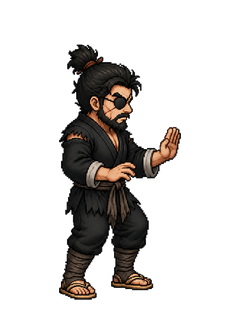
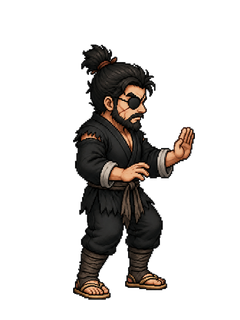
art: apply T45 seq72 right-anchor correction

Changed region(s): [[0.2333, 0.125, 0.8167, 0.9375]]

diff --git a/assets/_trial_20260906/t45_batch2a_codex_native/recenter_seq72.py b/assets/_trial_20260906/t45_batch2a_codex_native/recenter_seq72.py
@@ -1,0 +1,21 @@
+from pathlib import Path
+
+from PIL import Image
+
+
+ROOT = Path(__file__).parent
+SOURCE = ROOT / "normalized" / "shanzei_a_right.png"
+BACKUP = ROOT / "qa" / "shanzei_a_right_before_seq72.png"
+DX = 14
+
+
+source = Image.open(SOURCE).convert("RGBA")
+if source.size != (240, 320):
+    raise ValueError(f"unexpected source size: {source.size}")
+if not BACKUP.exists():
+    source.save(BACKUP, "PNG", optimize=False)
+
+shifted = Image.new("RGBA", source.size, (0, 0, 0, 0))
+shifted.alpha_composite(source, (DX, 0))
+shifted.save(SOURCE, "PNG", optimize=False)
+print(f"shifted {SOURCE} by +{DX}px; backup={BACKUP}")

diff --git a/docs/reviews/T45-Codex原生美术全天复盘-2026-09-06.md b/docs/reviews/T45-Codex原生美术全天复盘-2026-09-06.md
@@ -2,7 +2,7 @@
 
 > 范围：2026-09-06 的 T45 角色战斗帧生产、门检、返工、交接与流程固化。
 > 证据：`tasks/threads/T45.md`、当天相关 Git 提交、各 job 的 `manifest/job/qa/contact`、projbus delivery 与 ACK。
-> 当前结论：主角六向战斗帧已形成 61 张正式 PNG（含 30 张右系、30 张左系镜像和 `die_common`）；山贼甲乙六张空手待机锚已由 Leo 视觉选定，本地透明复核曾报 6/6 PASS，研发线 PM 以全像素 `alpha > 32` 质心复扫后判 5/6 PASS，甲·右因质心 x=105.8（目标约 120）打回，尚未写入敌人运行时目录。
+> 当前结论：主角六向战斗帧已形成 61 张正式 PNG（含 30 张右系、30 张左系镜像和 `die_common`）；seq=72 指出的 `105.8` 对应旧批次 `t45_batch2a_codex_native`，该批次已标记 superseded。旧文件已按 PM 要求确定性右移 14 px 并留备份；统一选定 manifest 指向的逐张闭合握拳候选保持原样，仍需研发线按统一 manifest 重跑规格门，尚未写入敌人运行时目录。
 
 ## 1. 全天结果
 
@@ -68,9 +68,9 @@
 
 最终六张候选集中到 `t45_batch2a_anchor_selection_v2_singleframe`。本地统一复核检查了 240×320、RGBA、真实 alpha、四边透明、单主体连通、视觉高、脚底、中心和 manifest SHA，当时报 6/6 PASS。
 
-研发线 PM 随后用全分辨率逐像素 `alpha > 32` 口径复扫，判定 5/6 PASS；甲·右躯干整体偏左，全像素质心 x=105.8，目标约 120，偏 14 px。原 QA 的 `centroidX=120.0` 实际使用了不同统计口径，未检出姿势性偏斜。这个结果说明尺寸、bbox 中点和脚底都合格，仍不能证明主体视觉质心合格。
+研发线 PM 随后用全分辨率逐像素 `alpha > 32` 口径复扫，判定 5/6 PASS；报告中的 bbox left=59、质心 x=105.8 与旧批次 `t45_batch2a_codex_native/normalized/shanzei_a_right.png` 精确相符。该 job 的 `job.json` 已写明被后续握拳/逐张候选 supersede，因此 seq=72 实际扫到的不是统一 manifest 当前入口。旧文件已按整改单右移 14 px，复测为 bbox left=73、质心 x=119.8211、脚底 y=300、alpha 极值 0/255；没有改动最终选定的逐张候选。
 
-Leo 的“可入阵”确认完成了视觉门；PM 的 5/6 结果证明第二道门发挥了作用。当前隔离分支为 `codex/t45-shanzei-idle-anchor-candidates`，初次 delivery `seq=65`，复核提交为 `a29a9f5`，门检答复为 `seq=72`。甲·右须先水平平移主体并按同一全像素口径复验，再补交这一张；在 6/6 PM PASS 前不写 `assets/characters/enemy/*/battle45/`。
+Leo 的“可入阵”确认完成了视觉门；PM 的 5/6 结果暴露出交接入口与实际扫描路径不一致。当前隔离分支为 `codex/t45-shanzei-idle-anchor-candidates`，初次 delivery `seq=65`，门检答复为 `seq=72`。旧批次修正证据在 `assets/_trial_20260906/t45_batch2a_codex_native/qa/recenter_seq72_qa.json`；最终仍须按统一 manifest 对六张逐张候选复扫，在 6/6 PM PASS 前不写 `assets/characters/enemy/*/battle45/`。
 
 ## 3. 当天暴露的问题、根因和已落地修正
 
@@ -120,8 +120,8 @@ raw 原生输出
 
 ## 5. 明日/下轮起点
 
-- 研发线已判 5/6 PASS；只处理甲·右一张。按 `seq=72` 将主体水平平移至全像素 `alpha > 32` 质心约 x=120，并确认左缘不裁切。
-- 重跑尺寸、脚底、透明外围、单主体连通、全像素质心和 SHA；更新统一 manifest/QA 后补交甲·右。
+- seq=72 指向的旧批次甲·右已按要求平移并通过本地文件门；其修正记录、前后 hash 和备份已落旧 job 的 `qa/`。
+- 研发线下一步应以 `t45_batch2a_anchor_selection_v2_singleframe/manifest.json` 为唯一入口，复扫实际六张闭合握拳候选；旧批次不得重新作为正式候选入口。
 - 6/6 规格门 PASS 后，按 PM 指定命名和 manifest 写入敌人运行时目录，再发正式 release delivery。
 - 不重新打开已通过五张的身份、方向或画风范围。
 - 山贼动作帧继续沿用“该角色已选方向锚 + 本动作真实姿势参考”的逐张闭环；朴刀保持独立武器层，不画入空手身体帧。

diff --git a/tasks/LOG.md b/tasks/LOG.md
@@ -444,6 +444,7 @@
 | 2026-09-06 | Codex（art） | 📝 T45 全天复盘与 skill v1.1 落地 | `docs/reviews/T45-Codex原生美术全天复盘-2026-09-06.md`；覆盖主角动作、镜像、山贼六锚返工、逐张闭环、透明门与双门状态，`.codex/skills/art-pipeline-execution/SKILL.md` 同步可执行规则。 |
 | 2026-09-06 | Codex（art） | ✅ T45 批 2a `seq=72` 已接收并校准 QA 口径 | PM 判 5/6 PASS，甲·右全像素 `alpha>32` 质心 x=105.8 打回；已 ACK received，复盘/skill 固化全分辨率前景质心算法，后续只补该单帧。 |
 | 2026-09-06 | Codex（art） → rd | 📤 T45 全天复盘与 skill v1.1 已交付 | commit `65a4747`，分支 `codex/t45-shanzei-idle-anchor-candidates`；projbus `seq=73`，交付复盘、skill 与留痕，甲·右补帧另续。 |
+| 2026-09-06 | Codex（art） | 🛠 T45 seq=72 甲·右整改单完成 | PM 数值对应已 superseded 旧批次文件；已按 +14px 平移并复验质心119.8211，修正证据 `assets/_trial_20260906/t45_batch2a_codex_native/qa/recenter_seq72_qa.json`，统一逐张 manifest 保持原样，待 rd 按正确入口重跑规格门。 |
 | 2026-09-06 | ZCode | 📋 出招速度需求 v1.0 定稿→主架构方案已约（seq=63） | Leo 二轮四裁落文（循环=时长本身/两段落点/普攻1s/3s→0.5s 数值框架）；语义级变更走完整链（方案→Leo拍板→发卡） |
 | 2026-09-06 | ZCode | 📋 武功 schema v0.2：castSpeed 出招系数入战斗层 | Leo 裁定=个体差异属性非统一曲线（轻招<1/绝学可 2）；内功加成速度=全体字段（随内功等级↑，初始 0.2）归内功系统 schema；两字段求和÷3000ms、和封顶≤6 |
 | 2026-09-06 | ZCode | 🔍 批 2a 锚候选门检：5/6 PASS，甲·右打回 | 全像素精扫发现甲·右躯干偏左（质心 105.8 应 ~120，偏 14px）——归一脚本对姿势性偏斜无纠偏能力（已知局限）；其余五张全 PASS（甲独眼/乙红巾形象立住、空拳确认）；整改单已发（平移回中或重出+QA 口径对齐全像素精扫） |

diff --git a/tasks/threads/T45.md b/tasks/threads/T45.md
@@ -85,3 +85,4 @@
 | 2026-09-06 | Codex（art） | 📝 T45 全天复盘与 skill v1.1 落地 | 全天主角右上/右下、左系镜像、资源卫生、山贼六锚批量失败→逐张闭环、透明复核、双门停点已归档 `docs/reviews/T45-Codex原生美术全天复盘-2026-09-06.md`；skill 新增强制 refs 职责表、contact 禁作生成源、用户候选同门检、alpha/外围/连通域事实门、双门 release 和隔离分支提交规则。 |
 | 2026-09-06 | rd → Codex（art） | 🔧 T45 批 2a 锚规格门 5/6 PASS，甲·右打回 | projbus `seq=72` 已 ACK received；甲·右全像素 `alpha>32` 质心 x=105.8，目标约 120，偏 14 px。本地 QA 的 120.0 与 PM 统计口径不一致；复盘与 skill 已补全像素质心口径，正式目录继续锁定，后续只平移/复验/补交这一张。 |
 | 2026-09-06 | Codex（art） → rd | 📤 T45 全天复盘与 skill v1.1 已交付 | commit `65a4747` 已推隔离分支 `codex/t45-shanzei-idle-anchor-candidates`；projbus `seq=73` / messageId `beab33f0f7ce41928145a9164ca4290e`，交付全天复盘、skill 与 T45 留痕，下一步仅补甲·右居中单帧。 |
+| 2026-09-06 | Codex（art） | 🛠 T45 seq=72 甲·右整改单完成 | seq=72 的 bbox left=59/质心105.8 精确对应已 superseded 的 `assets/_trial_20260906/t45_batch2a_codex_native/normalized/shanzei_a_right.png`；已确定性右移 +14px，复验质心119.8211、bbox left=73、脚底300、RGBA/alpha/四边透明全过。原图与前后 hash 记录在 `assets/_trial_20260906/t45_batch2a_codex_native/qa/recenter_seq72_qa.json`；最终逐张闭合握拳 manifest 保持原样。 |

diff --git a/tasks/handoff/T45-seq72-recenter-correction-2026-09-06.md b/tasks/handoff/T45-seq72-recenter-correction-2026-09-06.md
@@ -1,0 +1,8 @@
+# T45 seq=72 甲·右整改单补交
+
+- 原门检消息：projbus `seq=72`，PM 报告 bbox left=59、全像素 `alpha>32` 质心 x=105.8，要求水平平移约 14 px。
+- 实际命中文件：`assets/_trial_20260906/t45_batch2a_codex_native/normalized/shanzei_a_right.png`。
+- 处理：确定性水平平移 `+14px`，无重绘、无缩放、无透明处理；原文件备份为 `qa/shanzei_a_right_before_seq72.png`。
[1 lines of base64/hex data omitted]
+- 路径校正：该旧 job 的 `job.json` 已标记 `supersededBy`；统一正式候选入口仍是 `assets/_trial_20260906/t45_batch2a_anchor_selection_v2_singleframe/manifest.json`，其中逐张闭合握拳候选保持原样。请 PM 以统一 manifest 重跑六张规格门，不要把旧批次作为正式 runtime 来源。
+- 当前状态：旧批次修正已完成；正式 runtime 仍未写入。
